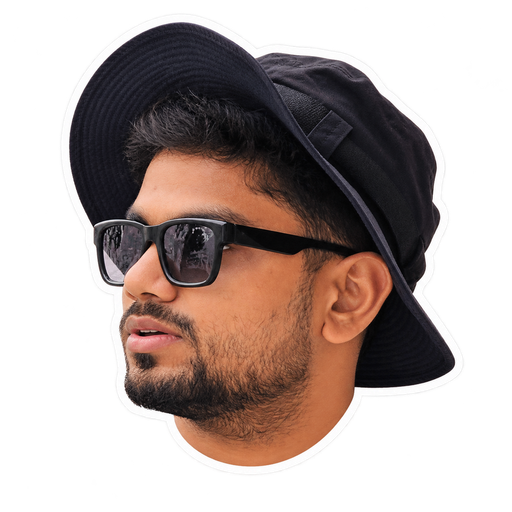
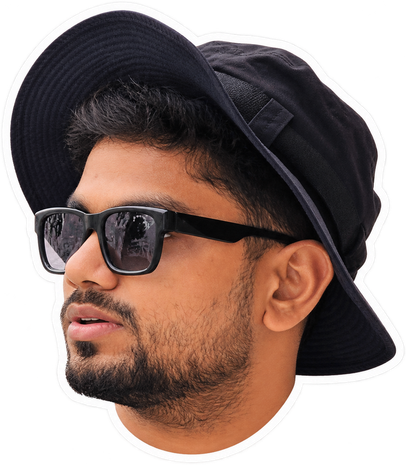
Refine sticker deck layout and state
Trim the avatar images and size stickers by their artwork aspect ratios for a tighter, more consistent fan. Persist the featured sticker and pinned state across visits.

diff --git a/src/components/stickers/StickerDeck.tsx b/src/components/stickers/StickerDeck.tsx
@@ -1,36 +1,35 @@
 "use client";
 
 import Image from "next/image";
-import { useCallback, useEffect, useRef, useState } from "react";
+import { useCallback, useEffect, useMemo, useRef, useState } from "react";
 import { motion, useReducedMotion } from "framer-motion";
 import { useFeedback } from "@/hooks/useFeedback";
 import { STICKERS } from "./stickers";
 import { cn } from "@/lib/utils";
 
 const N = STICKERS.length;
-/**
- * Centre-to-centre spacing as a multiple of the box size.
- *
- * Below 1 on purpose: the source PNGs carry ~12% transparent margin on each
- * side (up to 18% on the tightest pose), so spacing the boxes edge-to-edge
- * would leave a visible empty gutter between the stickers that are actually
- * drawn. Overlapping the boxes cancels that padding, so the gap you see is
- * between the artwork, not between the files.
- */
-const RATIO = 0.78;
+/** Sum of the content aspects — the row's width in units of its own height. */
+const SUM_ASPECT = STICKERS.reduce((sum, s) => sum + s.aspect, 0);
+/** Breathing room between stickers, as a fraction of the row height. */
+const GAP_RATIO = 0.12;
+const STORAGE_KEY = "hero-stickers";
 
 /**
  * The stickers are the control.
  *
  * At rest it is a single sticker. Hover the sticker (mouse) or tap it (touch)
- * and the whole set fans out into a row; leave or tap again and it gathers back
- * onto one. Click a sticker in the fan and the row gathers onto *that* one, so
- * the pick is deliberate instead of random.
+ * and the set fans out; leave, or tap again, and it gathers back onto one. A
+ * click on a sticker in the fan gathers the row onto *that* one, so the pick is
+ * deliberate rather than random.
  *
- * Sizing is derived from the measured container, never fixed: the open row
- * spans the full width it is given and the stickers grow to fill it, so a wide
- * column gets big stickers and a phone gets smaller ones rather than the row
- * drifting apart inside a fixed box.
+ * Laid out by content, not by file. The PNGs are trimmed to their artwork and
+ * each carries its own aspect, so every sticker gets a box that matches it: the
+ * row spans the full measured width, the artwork fills its box edge to edge,
+ * and the gap you see is a real gap rather than transparent margin. Before,
+ * ~25% of the row was empty pixels inside the files.
+ *
+ * The choice sticks: whether the row was left open, and which sticker was
+ * picked, are both kept in localStorage and restored on the next visit.
  */
 export function StickerDeck({ className }: { className?: string }) {
   const reduce = useReducedMotion();
@@ -48,12 +47,60 @@ export function StickerDeck({ className }: { className?: string }) {
     return () => ro.disconnect();
   }, []);
 
-  // Row width = (N-1)*GAP + SIZE and GAP = RATIO*SIZE, so SIZE solves to fill.
-  const size = width > 0 ? width / ((N - 1) * RATIO + 1) : 48;
-  const gap = size * RATIO;
+  // Row height solves so that sum(widths) + gaps fills the measured container.
+  const rowH = width > 0 ? width / (SUM_ASPECT + (N - 1) * GAP_RATIO) : 80;
+  const gap = rowH * GAP_RATIO;
+  const widths = useMemo(() => STICKERS.map((s) => s.aspect * rowH), [rowH]);
+  const offsets = useMemo(() => {
+    const xs: number[] = [];
+    let acc = 0;
+    for (let i = 0; i < N; i++) {
+      xs.push(acc);
+      acc += widths[i] + gap;
+    }
+    return xs;
+  }, [widths, gap]);
 
-  const [open, setOpen] = useState(false);
+  const [pinned, setPinned] = useState(false);
+  const [hovering, setHovering] = useState(false);
   const [featured, setFeatured] = useState(0);
+  const [ready, setReady] = useState(false);
+  // After a pick, the pointer is still over the deck — so hover must not
+  // immediately re-open what the click just gathered. Held until it leaves.
+  const suppressHover = useRef(false);
+
+  // Restore what the visitor left behind.
+  useEffect(() => {
+    try {
+      const raw = localStorage.getItem(STORAGE_KEY);
+      if (raw) {
+        const saved = JSON.parse(raw) as { pinned?: unknown; featured?: unknown };
+        if (typeof saved.pinned === "boolean") setPinned(saved.pinned);
+        if (
+          typeof saved.featured === "number" &&
+          saved.featured >= 0 &&
+          saved.featured < N
+        ) {
+          setFeatured(saved.featured);
+        }
+      }
+    } catch {
+      // A blocked or corrupt store just means the default state.
+    }
+    setReady(true);
+  }, []);
+
+  useEffect(() => {
+    if (!ready) return;
+    try {
+      localStorage.setItem(STORAGE_KEY, JSON.stringify({ pinned, featured }));
+    } catch {
+      // Ignore: the deck still works, the choice just will not persist.
+    }
+  }, [pinned, featured, ready]);
+
+  // Hover is transient, the click is a decision — the row stays open if either.
+  const open = pinned || hovering;
 
   const transition = reduce
     ? { duration: 0.001 }
@@ -63,22 +110,18 @@ export function StickerDeck({ className }: { className?: string }) {
     (i: number) => {
       feedback.select();
       setFeatured(i);
-      setOpen(false);
+      setPinned(false);
+      suppressHover.current = true;
+      setHovering(false);
     },
     [feedback]
   );
 
-  /**
-   * Where sticker `i` sits right now. One source for art and hit-testing.
-   *
-   * Laid out from the left edge, not centred: the row's first card then shares
-   * the left rail every other element in the section uses, and the closed
-   * sticker does not jump sideways the instant the row opens.
-   */
+  /** Where sticker `i` sits right now. One source for art and hit-testing. */
   const target = (i: number) => {
     if (open) {
       return {
-        x: i * gap,
+        x: offsets[i],
         scale: 1,
         rotate: STICKERS[i].tilt,
         opacity: 1,
@@ -101,17 +144,19 @@ export function StickerDeck({ className }: { className?: string }) {
     <div
       ref={containerRef}
       className={cn("relative w-full", className)}
-      // Just enough for the widest resting tilt (±8°) to clear the box.
-      style={{ height: Math.round(size * 1.15) }}
-      // Leaving the band gathers it. Opening is bound to the stickers, not this
-      // band — the band is full width, so opening here would fire on any pass.
+      // Just enough for the widest resting tilt to clear the box.
+      style={{ height: Math.round(rowH * 1.18) }}
+      // Leaving gathers it. Opening is bound to the stickers, not this band —
+      // the band is full width, so opening here would fire on any pass.
       onPointerLeave={(e) => {
-        if (e.pointerType === "mouse") setOpen(false);
+        if (e.pointerType !== "mouse") return;
+        suppressHover.current = false;
+        setHovering(false);
       }}
       onClick={() => {
-        // Touch (and a deliberated click) toggles.
+        // A click on the deck (not on a sticker) pins the row open or shut.
         feedback.select();
-        setOpen((o) => !o);
+        setPinned((p) => !p);
       }}
     >
       {STICKERS.map((sticker, i) => {
@@ -128,16 +173,21 @@ export function StickerDeck({ className }: { className?: string }) {
               t.live ? "cursor-pointer" : "pointer-events-none"
             )}
             style={{
-              width: size,
-              height: size,
-              marginTop: -size / 2,
+              left: 0,
+              width: Math.round(widths[i]),
+              height: Math.round(rowH),
+              marginTop: -rowH / 2,
               zIndex: t.z,
             }}
             initial={false}
             animate={{ x: t.x, scale: t.scale, rotate: t.rotate, opacity: t.opacity }}
             transition={transition}
+            // The press has to feel like the sticker itself was pushed.
+            whileTap={{ scale: 0.92 }}
             onPointerEnter={(e) => {
-              if (e.pointerType === "mouse") setOpen(true);
+              if (e.pointerType === "mouse" && !suppressHover.current) {
+                setHovering(true);
+              }
             }}
             onClick={(e) => {
               // Only meaningful once the fan is out; otherwise the deck toggles.
@@ -150,8 +200,8 @@ export function StickerDeck({ className }: { className?: string }) {
             <Image
               src={sticker.src}
               alt=""
-              width={256}
-              height={256}
+              width={512}
+              height={Math.round(512 / sticker.aspect)}
               className="h-full w-full object-contain"
             />
           </motion.button>

diff --git a/src/components/stickers/stickers.ts b/src/components/stickers/stickers.ts
@@ -1,30 +1,39 @@
 /**
- * The single source of the sticker set. Every view — the row, the shuffle, the
- * deck variants — reads from here, so adding a sticker is one line and the
- * views can never drift apart.
+ * The single source of the sticker set. Every view — the deck, the row, the
+ * shuffle — reads from here, so adding a sticker is one line and the views can
+ * never drift apart.
  *
  * `tilt` is the resting angle, in degrees, used by the fanned layouts. Keep it
  * within ±8 — past that a row reads as broken layout instead of stickers.
+ *
+ * `aspect` is content width / content height, measured after the transparent
+ * margin is trimmed off the PNG (the served files are already trimmed). The
+ * deck needs it to give each sticker a box that matches its artwork, so the row
+ * can be laid out by content instead of by file. Regenerate it if a sticker is
+ * re-exported — it is the alpha bounding box of the trimmed image.
  */
 export interface Sticker {
   src: string;
   alt: string;
   tilt: number;
+  aspect: number;
 }
 
 export const STICKERS: Sticker[] = [
-  { src: "/avatars/peace.png", alt: "Me throwing a peace sign", tilt: -7 },
-  { src: "/avatars/thinking.png", alt: "Me with a finger to my temple", tilt: 5 },
+  { src: "/avatars/peace.png", alt: "Me throwing a peace sign", tilt: -7, aspect: 0.9738 },
+  { src: "/avatars/thinking.png", alt: "Me with a finger to my temple", tilt: 5, aspect: 0.7148 },
   {
     src: "/avatars/messy-hair.png",
     alt: "Me with messy hair and clear glasses",
     tilt: -4,
+    aspect: 0.7854,
   },
   {
     src: "/avatars/hat-sunglasses.png",
     alt: "Me in a bucket hat and sunglasses",
     tilt: 6,
+    aspect: 0.8731,
   },
-  { src: "/avatars/glasses-side.png", alt: "Me in glasses, side profile", tilt: -5 },
-  { src: "/avatars/close-up.png", alt: "Me in black glasses, close up", tilt: 3 },
+  { src: "/avatars/glasses-side.png", alt: "Me in glasses, side profile", tilt: -5, aspect: 0.7698 },
+  { src: "/avatars/close-up.png", alt: "Me in black glasses, close up", tilt: 3, aspect: 0.6687 },
 ];
